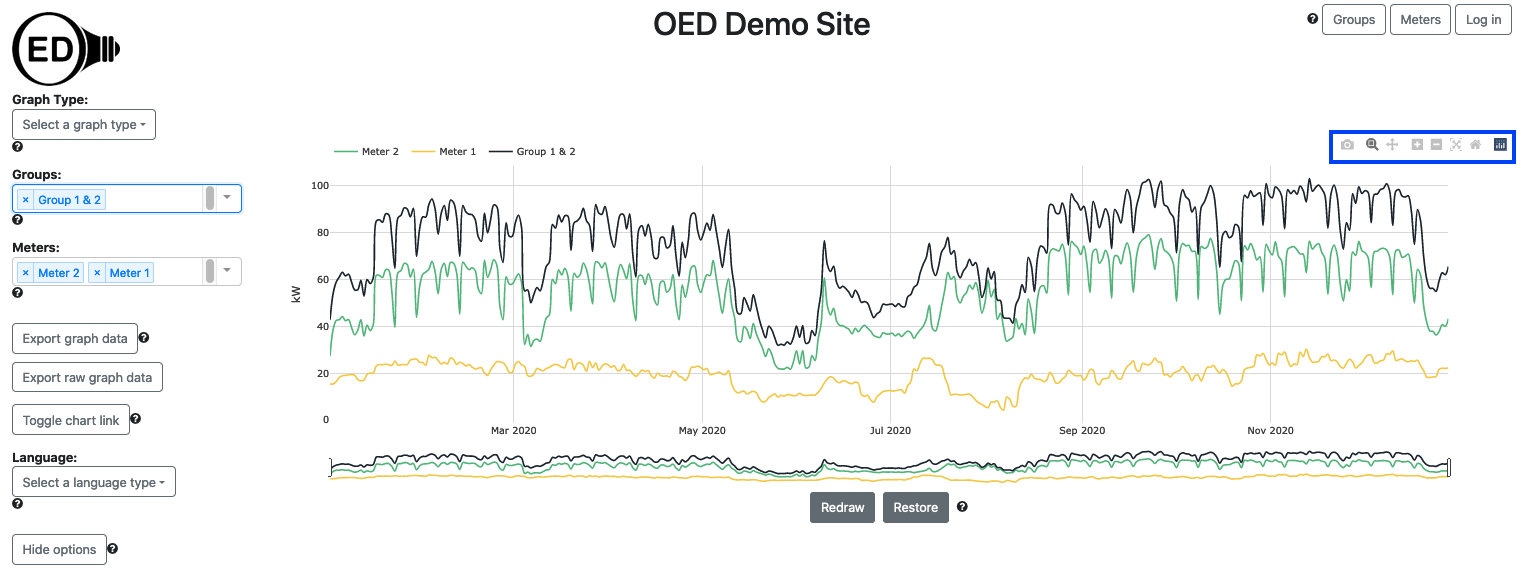
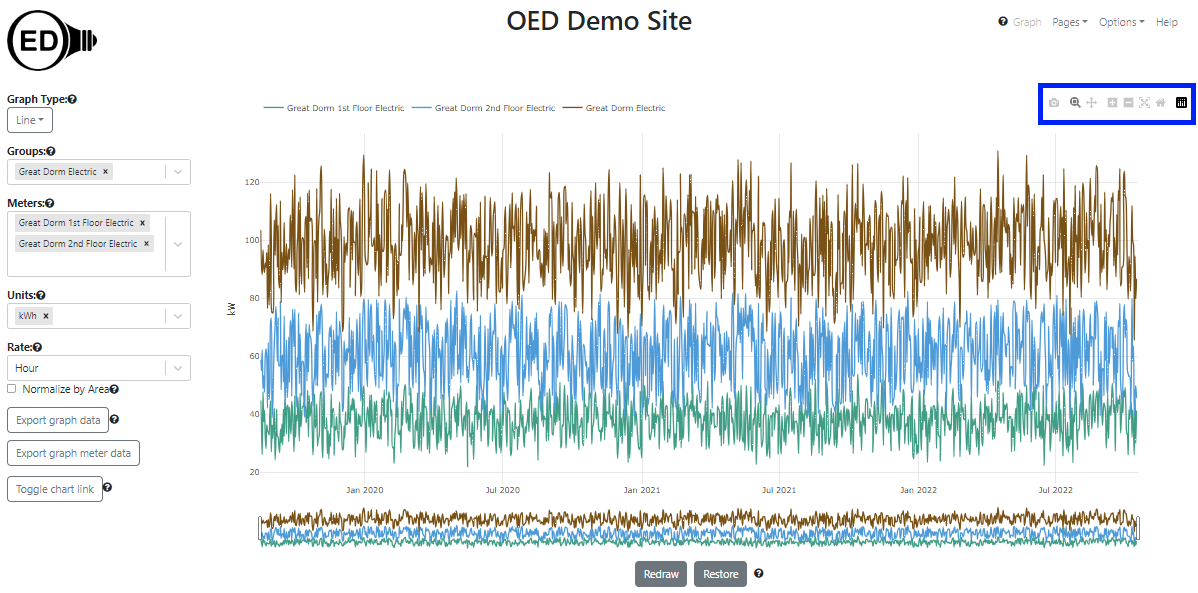
First redo of line graphic help page

diff --git a/help/v1.0.0/lineGraphic.html b/help/v1.0.0/lineGraphic.html
@@ -8,60 +8,51 @@ title: OED line graphic help
 	<h1>OED Line Graphic (Help)</h1>
 
 	<h2 id="overview">Overview</h2>
-	<p>A line graphic shows each meter and group as a unique line showing usage across time. The following figure shows
-		a line graphic of two meters (Meter 1 and Meter 2) and one group (Group 1 & 2) where the group contains the same
-		two
-		meters. The hover is shown whenever the curser is over a line and is accurate to 6 significant figures. If you
-		hover over each line then you would see that the sum of the hover values for Meter 1 and Meter 2 is the same as
-		the value for Group 1 & 2 as expected since the group contains these two meters. The time in the hover is
-		12:00:00 PM which is the middle of the day (noon) and is the same as the x-axis value. On most graphics, except
-		if zoomed in to a small time frame (see below), the x-axis represents the average over multiple meter values as
-		<a href="#averaging">discussed below</a>. The x-axis value is given the middle of the date/time range of values
-		that were averaged. In this case, each point is a full day and goes from midnight to midnight of that day. Thus,
-		the average is in the middle of the day/noon/12:00:00 PM.
-		Each line represents power usage at that time for the indicated meter/group, e.g., kW for electricity. To get
-		this graphic, you
-		click the
-		"Line"
-		choice
-		(highlighted with a blue box) from the "Select a graph type" dropdown menu.
+	<p>A line graphic shows each meter and group as a unique line showing usage across time. The
+		following figure shows
+		a line graphic of two meters of the floors of the "Great Dorm" and the group "Great Dorm Electric" which
+		contains
+		both of these floors. (<a href="./exampleDescription.html">information on example data</a>)
+		Thus, the sum of the values of the two meter lines at any given time equals the group line value. The hover is
+		shown whenever the curser
+		is over a line and is accurate to 6 significant figures. It is the middle of the date/time range of represented
+		by this point. In the figure below, the time in the hover is
+		12:00:00 PM which is the middle of the day (noon) since the point spans an entire day. It is the same as the
+		x-axis value. Each line represents power usage at that time for the indicated meter/group, e.g., kW for
+		electricity with the graphing unit of kWh. To get
+		this graphic, you click the "Line" choice (highlighted with a blue box) from the "Graph type" dropdown
+		menu.
 	</p>
-	<img alt="line graphic with two meters and a group of those meters" src="./images/OEDLineGraphicRealDataHelp.png"
-		style="width: 75vw; min-width: 700px;">
+	<p><img alt="line graphic with two meters and a group of those meters" src="./images/lineGraphic.png"></p>
 	<p>A line graphic can show an arbitrary choice and number of meters and groups. As described below, you can control
 		the time frame (dates shown) on the line graphic.</p>
 
 	<h2 id="usage">Usage</h2>
-	<p>You select the <a href="graphingMeters.html">meters</a> and/or <a href="graphingGroups.html">groups</a> to graph
-		in the usual way. OED will display each meter and group as an individual line as shown in the figure above. For
-		this section the graphics use synthetic data since values are easier to see. In this data, the meters have a
-		constant value for long periods of time. Also, we will often use meters in these sample figures
-		but the same ideas apply equally to groups.
-		The time frame (days) shown on the x-axis will be the maximum time for all all meters and groups. If different
-		meters and group have data for different time ranges then some lines will not span the entire length of the
-		x-axis. The next figure shows this where the Meter C and Meter D do not span the full range of time on the graph
-		so the beginning and end of the graphic does not have values for these two meters.
+	<p>One selects the <a href="graphingMeters.html">meters</a> and/or <a href="graphingGroups.html">groups</a> to graph
+		in the usual way. OED will display each meter and group as a series of uniquely colored lines. One can select
+		the <a href="./graphingUnits.html">units</a>, <a href="./areaNormalization.html">area normalization and <a
+				href="./chartLink.html">chart link</a> as usual. The <a href="graphingRates.html">rate</a> used to
+			display the day can also be selected when it is appropriate.</p>
+	<p>If the values of one or more meters (or groups) are substantially
+		less than another meter (or group) then the values for these meters will be very close to the x-axis and
+		difficult to see. This is seen in the following figure where "Library Electric" has substantially smaller values
+		than "Great Dorm Electric".</p>
+	<p><img alt="line graphic of two meters with substantially different values" src="./images/lineDifferentValues.png">
 	</p>
-	<img alt="sample line graphic where the meters data is different time frames" src="./images/OEDLineVaryTime.png"
-		style="width: 75vw; min-width: 700px;">
-	<p>This graphic also demonstrates another potential issue. If the values of one or more meters (or groups) are
-		substantially
-		less than another meter (or group) then the values for these meters will be very close to the x-axis. You can
-		see these
+	<p>One can more readily see these
 		values by removing the values for the meters or groups with larger values. One way to do this is to remove a
-		meter from graphing by clicking the "X" next to its name in the list (details on the <a
-			href="graphingMeters.html">meters</a>/<a href="graphingGroups.html">groups</a> viewing help
+		meter or group from graphing by clicking the "X" next to its name in the list (details on the <a
+			href="graphingMeters.html">meters</a>/<a href="graphingGroups.html">groups</a> graphing help
 		pages). This works but is slower since OED must recalculate the values via the server (see <a
 			href="#details">details</a> below). It also means you won't see these meters/groups in other graphics since
 		they were removed. A nice solution is to click on the name of the meter/group at the top of the line graphic. In
-		the next figure, Meter D was clicked (highlighted with blue box) and the graph quickly redrew to
+		the next figure, "Great Dorm Electric" was clicked (highlighted with blue box) and the graph quickly redrew to
 		what is shown with the y-axis scale re-calibrated for the remaining meters. The meter not being shown is in
 		shadow font. You can click to remove as many lines as desired.</p>
-	<img id="lineHidden" alt="removing meters from a line graphic" src="./images/OEDLineHidddenMeter.png"
-		style="width: 75vw; min-width: 700px;">
+	<p><img id="lineHidden" alt="removing meter from a line graphic" src="./images/lineHidddenMeter.png"></p>
 	<p>You can click on a meter/group in shadow font to get it to quickly reappear on the line graphic. Note that going
 		to another graphic will reset the
-		lines shown so any hidden meters will show again.</p>
+		meters/groups shown so any hidden meters will show again.</p>
 
 	<h3 id="scrollZoom">Scrolling and zooming</h3>
 	<p>Initially, OED shows the line graphic across all time that is available. Sometimes you want to look at a smaller
@@ -69,13 +60,14 @@ title: OED line graphic help
 		rectangles with black border below the x-axis (highlighted with blue boxes in the figure below). As you slide
 		the
 		black rectangle, the parts of the x-axis (time) that is removed from the graph is show by a gray filled
-		rectangle (highlighted in light blue boxes but goes also goes to center of rectangle but not highlighted since
+		rectangle (highlighted in light blue boxes but goes also goes to center of the rectangle but not highlighted
+		since
 		then hard to see other blue box). The white area between the gray rectangles is the time being shown.
 		In
-		the figure below the original time from of January through December was reduced to March through August.</p>
-	<img alt="reducing time shown in a line graphic" src="./images/OEDLineReducedTime.png"
-		style="width: 75vw; min-width: 700px;">
-	<p>Note that the time range selected on a line graphic is also used for the Bar Graphic.</p>
+		the figure below the original time was reduced to July through December, 2020.</p>
+	<p><img alt="reducing time shown in a line graphic" src="./images/lineReducedTime.png"></p>
+	<p>Note that the time range selected on a line graphic is also used for most other graphics (but not comparison).
+	</p>
 	<p>Once you are zoomed in so gray areas are shown for the removed time, you can click within these areas to modify
 		the time range shown but the behavior is a little more complex and likely to take time to learn to use.</p>
 	<p>If only part of the time is shown, then you can scroll to see the other times. The total time displayed remains
@@ -83,9 +75,8 @@ title: OED line graphic help
 		below the x-axis
 		that shows the time being displayed (highlighted with blue box in the next figure). The next figure shows the
 		process
-		of dragging where the time displayed has now changed to May through October.</p>
-	<img alt="scrolling time in a line graphic" src="./images/OEDLineScrolled.png"
-		style="width: 75vw; min-width: 700px;">
+		of dragging where the time displayed has now changed to January through June, 2021.</p>
+	<p><img alt="scrolling time in a line graphic" src="./images/lineScrolled.png"></p>
 
 	<p>If you zoom in significantly so the time range is much smaller than the original time range, the graph can become
 		jagged due to having too few points. Also, you might want to return the graphic to its original, full time
@@ -93,58 +84,76 @@ title: OED line graphic help
 	</p>
 
 	<h3 id="redrawRestore">Redraw and Restore buttons</h3>
-	<p>The next figure shows the result of zooming in even farther so a limited time range of one month is shown. It
-		also only shows one meter so the effects are easier to see.</p>
-	<img alt="zooming to a limited time range on a line graphic" src="./images/OEDLineZoomed.png"
-		style="width: 75vw; min-width: 700px;">
+	<p>The next figure shows the result of zooming in even farther so a limited time range of about one week is shown.
+		It only shows one of the meters to simplify seeing the effect.</p>
+	<p><img alt="zooming to a limited time range on a line graphic" src="./images/lineZoomed.png"></p>
 	<p>As you can see, the line has become vague because the time points are far apart. This happens due to the limited
-		number of points available. (see <a href="#redrawDetails">below</a> for the details of why). If you want to see
+		number of points available from the original time frame graphic of several years. (see <a
+			href="#redrawDetails">below</a> for the details of why). If you want to see
 		this time range with more
-		points then click the "Redraw" button (highlighted with a blue box) below the graph. The figure below shows the
-		result of
-		doing this where you can see that many more points are present. In this case it is using the original meter data
+		points then click the "Redraw" button (highlighted with a blue box) as shown in the figure below. One can now
+		see that many more points are present. In this case it is using the original meter data
 		which is spaced one hour apart.</p>
-	<img alt="result of redrawing a line graphic" src="./images/OEDLineRedraw.png"
-		style="width: 75vw; min-width: 700px;">
-	<p>Note that once you do this, the time range is reset so you cannot zoom outward nor scroll to times outside the
-		new range but you can zoom in farther so you can do this. If you want to see other time ranges, you can click
+	<p><img alt="result of redrawing a line graphic" src="./images/lineRedraw.png"></p>
+	<p>Because OED uses a rate on the line graphic (as discussed above), The reading's value does not dramatically
+		change when the time frame is redrawn unless the averaging was for meter data that varied greatly. Note that
+		once you do this, the time range is reset so you cannot zoom outward nor scroll to times outside the
+		new range but you can zoom in farther. If you want to see other time ranges, you can click
 		the "Restore" button (highlighted with a blue
 		box) and the graph will return to its original view with the time range including all meters. The result of
-		doing this is shown in the next figure. Notice that it matches the Meter 2 line in the original figure at the
-		top of this page.</p>
-	<img alt="restoring time in a line graphic" src="./images/OEDLineRestored.png"
-		style="width: 75vw; min-width: 700px;">
+		doing this is shown in the next figure. Notice that it matches the "Great Dorm 1st Floor Electric" line in the
+		original figure at the
+		top of this page when the different y-xis scales are taken into account.</p>
+	<p><img alt="restoring time in a line graphic" src="./images/lineRestored.png"></p>
 	<p>As noted, when you "Redraw" the data, OED recalculates the number of points to display. Part of that process is
-		deciding the frequency, i.e., the time between points, that is shown. OED has three frequencies that it uses:
+		deciding the frequency, i.e., the time between points, that is shown. OED tries to return the highest quality
+		data it can without returning too many graphing points. At the current time, OED limits the number of graphic
+		points for any individual line or meter to 1440 or less. OED has three qualities of graphic points that it uses:
 	</p>
 	<ul>
-		<li>Daily. Each point represents one day of data. This is typically the average of the readings across that day
-			unless there are not multiple readings in a day. When you hover over a line in this case the time shown will
-			be 12:00:00 PM because that is the midpoint of the points averaged. OED will display day data when there is
-			2 or more months of data (precisely, for 61 or more days).</li>
-		<li>Hourly. Each point represents one hour of data. As with days, OED automatically averages multiple readings
-			within the hour. When you hover over a line in this case the time shown will be a half hour such as 9:30:00
-			AM since the half hour is the midpoint of the time averaged. When this happens can be controlled by the site
-			but the default is for more than about 2 weeks (precisely, 15 days) and up to 60 days when the daily points
-			will be shown.</li>
-		<li>Original Meter Data. If you go below the minimum time for hourly points then OED will display the original
-			meter data (also called raw data). This means that no averaging has been done and the graph shows what was
-			received from the meter. This can be valuable if you want to see exactly what the meter showed. For the
-			default settings, this happens when you display less than 15 days worth of data.</li>
+		<li>Original Meter Data. If the range of time means that the number of meter points is small enough then OED
+			will use the original meter data. This means that no averaging has been done and the graph shows what was
+			received from the meter. This can be valuable if you want to see exactly what the meter showed. As shown
+			above, reducing the number of days on a line graphic can make this happen if the meter has a lot of reading.
+			Note that groups cannot graph at the meter data level because meters with data at different times of
+			readings do not align.
+		</li>
+		<li>Hourly. Each point represents one hour of data. OED automatically averages multiple readings
+			within the hour and will properly account for missing meter points within the hour when there are still some
+			points. When you hover over a line in this case the time shown will be a half hour such as 9:30:00
+			AM since the half hour is the midpoint of the time averaged.</li>
+		<li>Daily. Each point represents one day of data. OED automatically averages multiple readings
+			within the day and will properly account for missing meter points within the day when there are still some
+			points. When you hover over a line in this case the time shown will
+			be 12:00:00 PM because that is the midpoint of the points averaged.</li>
 	</ul>
-	<p>If a site receives meter data more rapidly than about every 15 minutes, it would be common to lower the point
-		when original meter data is displayed. For example, if data is read every minute, then the normal setting would
-		be to switch at 1 day and not the 15 days for most sites. A site can choose to modify this nominal setting. If
-		it was set so the switch occurred at 2 days instead of 1 day then OED would need to send more points than it
-		typically wants for time ranges between 1 and 2 days. For example, at exactly 2 days, OED would send 2880 points
-		(normally OED limits to 1440 points). This will make getting this data a little slower but does allow for seeing
-		a larger range of time with original meter data. The site administrator can help with this setting.</p>
+	<p>Note that each meter or group that is in a line graphic independently decides about the quality of its line
+		graphic. This is done to give the maximum quality possible while not returning too many points in any line.
+		Thus, it is possible to get meters on a line graphic that have different qualities. Since groups will not
+		use meter data then they will definitely differ from meters that are displayed at this quality.</p>
+	<p>OED will not return a quality of graphic readings that is higher than what a meter is supposed to supply data.
+		For example, if a
+		meter supplies data every four hours then the quality of data in a line graphic will not be hourly but could be
+		every 4 hours or daily. As another
+		example, if a meter only has data every 7 days then it would only graph that data every 7 days. Note that
+		because
+		the meter supplied data less frequently it is more likely that OED will graph the original meter data which is
+		the highest quality data it has available.</p>
+	<p>To give an idea of when OED uses each quality of graphic points, suppose you have a meter that supplies data
+		every 15
+		minutes. If the graphic time range is 15 days or less then OED will graph in original meter data. If the graphic
+		time range is more than 15 days but 60 days
+		or less then OED will graph hourly points. If it is more than 60 days then OED will graph daily points. OED
+		uses the information the site provides for the frequency that a meter supplies data to make the determinations
+		and
+		does not take into account if the meter supplies data at a different rate.</p>
 
 	<h2 id="details">Details</h2>
 
 	<h3>Exporting graph data</h3>
-	<p>You can export the data represented on a line graphic. You can use the line graph to get the time range and
-		meters/groups you want. See the <a href="export.html">export help page</a> for further information.</p>
+	<p>You can export the data represented on a line graphic. You can use the line graph to get the time range,
+		meters/groups, unit and rate you want before exporting. See the <a href="export.html">export help page</a> for
+		further information.</p>
 
 	<h3>Plotly graph controls</h3>
 	<p>As shown in the next figure, the Plotly (the underlying graphic package) graphical
@@ -152,7 +161,7 @@ title: OED line graphic help
 		you to download a PNG for the graph. If you hover over a Plotly control icon it will show its name. Note that
 		using some of the other controls (zoom, pan, etc.) may cause
 		unexpected behavior as OED is also using those features.</p>
-	<img alt="Plotly controls" src="./images/plotlyControls.png" style="width: 75vw; min-width: 700px;">
+	<p><img alt="Plotly controls" src="./images/plotlyControls.png"></p>
 
 	<h3 id="colors">Colors of lines</h3>
 	<p>The color of lines is always the same for a given meter or group. This means everyone sees the same color
@@ -168,9 +177,39 @@ title: OED line graphic help
 		happen when
 		the number of meters and groups is large. Note both of these depend on the number of meters and groups
 		at the
-		OED site and not the number being shown. Finally, a given meter or group will have the same color on the
-		line,
-		bar and map graphic.</p>
+		OED site and not the number being shown. Finally, a given meter or group will have the same color on all
+		graphics except compare.</p>
+
+	<h3>When meters/groups have different time ranges of data</h3>
+	<p>If the meters included in a group have data for different times then the group will only represent the data that
+		is
+		available. Suppose the "Great Dorm 1st Floor Electric" meter goes from August 2019 to October 2022 as it does in
+		the
+		examples on most help pages. Now suppose the "Great Dorm 2nd Floor Electric" meter had data from July 2020 to
+		August
+		2023 which is different from the time range on most help pages. As seen in the following figure, the lines for
+		these
+		two meters do not span the same time ranges.</p>
+	<p><img alt="line graphic of two meters with substantially different time ranges"
+			src="./images/lineDifferentTimes.png">
+	<p>As shown in the next figure, the group "Great Dorm Electric Vary" contains these two meters is graphed.</p>
+	<p><img alt="line graphic of two meters with substantially different time ranges"
+			src="./images/lineDifferentTimesGroup.png">
+	<p>As can be seen, July 2020 to October 2022 shows the group looking as the usual sum of the two meters. However,
+		August 2019 to June 2020 there is only the value of the "Great Dorm 1st Floor Electric" meter. This occurs
+		because
+		there is no data for the "Great Dorm 2nd Floor Electric" meter so nothing from that meter is included in the
+		aggregation in the group for
+		this time range. A similar situation occurs from November 2022 to August 2023 because the meter "Great Dorm 1st
+		Floor Electric" does not have any values. For efficiency reasons, OED does not detect when meters are missing
+		data when graphing data. This can happen for much briefer periods of time in the middle of the line graphic if
+		the meter does not collect
+		data for a short time frame. The gaps in meter values can sometimes be seen on either the line or bar graphic of
+		that meter. These
+		cases are generally unusual and are being noted for completeness sake.</p>
+	<p>The time frame (days) shown on the x-axis will be the maximum time for all all meters and groups. If different
+		meters and group have data for different time ranges then some lines will not span the entire length of the
+		x-axis. This is seen in the figure above.</p>
 
 	<h3 id="redrawDetails">Why do I need to Redraw and Restore?</h3>
 	<p>OED is designed to be fast on any reasonable device. When you are zooming and scrolling within a line
@@ -193,16 +232,16 @@ title: OED line graphic help
 		other areas of the graph.</p>
 
 	<h3 id="averaging">Why doesn't OED show all the meter/group data?</h3>
-	<p>Meters often get a new data point every 15 to 60 minutes and groups inherit that value. This means
+	<p>Meters often get a new data point every 15 to 60 minutes and groups either do our or day points. This means
 		a given
 		meter or group can have a lot of data points. For example, a meter reading every 20 minutes for a year
 		has over
-		26,000 data points. OED refers to these points as the original or raw meter data. There would be two
+		26,000 data points. OED refers to these points as the original meter data. There would be two
 		main issues
-		in showing you all the raw data. First, it would be
+		in showing all the meter data. First, it would be
 		significantly slower. All that data needs to be located in the OED database and then transferred across
 		the
-		network to your device. If you are on a mobile device you may be paying to transfer the data. Second,
+		network to one's device. If you are on a mobile device you may be paying to transfer the data. Second,
 		you would
 		not be able to see all the points even if OED tried to graph them. Screen resolutions are in the
 		hundreds to
@@ -212,7 +251,7 @@ title: OED line graphic help
 		number
 		of points would be lost in viewing. Thus, OED averages the data on the site server to reduce the number
 		of
-		points it sends to your web browser for graphing. Thus, a point is the average energy usage across that time.
+		points it sends to one's web browser for graphing. Thus, a point is the average energy usage across that time.
 		Typically it averages across a day of data to be
 		highly
 		responsive. If you have limited data points for day averages then it will use smaller time intervals
@@ -230,15 +269,10 @@ title: OED line graphic help
 		meter data.</p>
 
 	<h3 id="datetimeFormat">Format of dates and times</h3>
-	<p>OED uses a software system that tries to properly use your current language of display to determine how to
+	<p>OED uses a software system that tries to properly use one's currently <a href"./language.html">chosen language of
+			display</a> to determine how to
 		display dates and times. For example, in English it would show MM DD, YYYY (e.g., January 1, 2020) whereas in
 		Spanish it would show DD de MM de YYYY (e.g., 1 de enero de 2020). What this means is the date and time format
-		you see may vary from what is shown in the help pages. It should be more appropriate for your language.</p>
-
-	<h3>Meters that supply readings infrequently</h3>
-	<p>As described above, OED displays averaged data at daily and hourly frequencies. If the meter supplies data at
-		rate of less then every hour or day then you can see repeated values in the line graphic. For example, if a
-		meter supplied reading every four hours, then there are four readings of hourly average that will have the same
-		value since the reading spans four hour. The values displayed are correct but users might wonder why the same
-		value is repeated for multiple points in a row. This should help explain this.</p>
+		you see may vary from what is shown in the help pages. It should be more appropriate for one's chosen language.
+	</p>
 </div>
